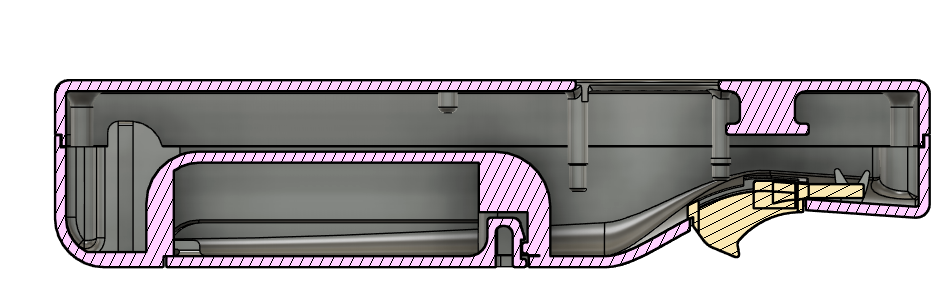
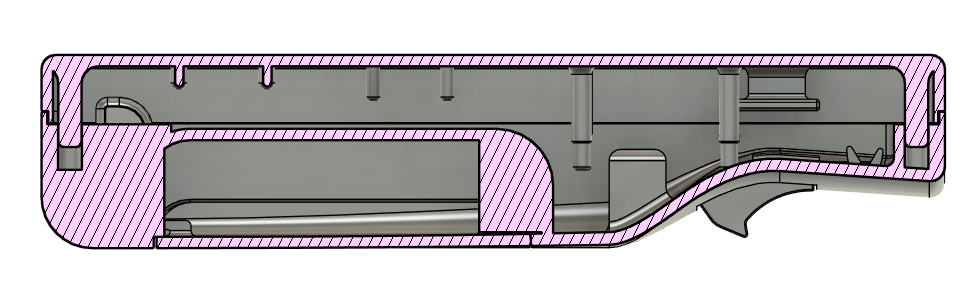
Updated concept & design documentation

diff --git a/docs/uxd/concept_design.md b/docs/uxd/concept_design.md
@@ -64,16 +64,17 @@ Additionally the controller will be wireless and communicate with the display th
 The controller is one of the most important elements of this entire projects. Having a solid concept is essential for the project to feel complete.
 Below some concepts can be seen.
 <div align="center">
-  <img src="/../assets/images/controller-concepts-1.png" alt="cursorconcept" width="75%">
+  <img src="/../assets/images/controller-concepts-1.png" alt="cursorconcept" width="49%">
+  <img src="/../assets/images/controller-concepts-2.png" alt="cursorconcept" width="49%">
 </div>
-
-<div align="center">
-  <img src="/../assets/images/controller-concepts-2.png" alt="cursorconcept" width="75%">
-</div>
-
-An additional idea is to allow the controller to be plugged into an attachment to give it more of a gun feel. This allows the controller to be more multi purpose incase of additional games, but still allow it to be fitting for the main game being worked on.
-<div align="center">
-  <img src="/../assets/images/controller-concepts-attachment.png" alt="cursorconcept" width="75%">
+<br>
+<div style="display: flex; align-items: center;">
+  <div style="flex: 1;">
+    An additional idea is to allow the controller to be plugged into an attachment to give it more of a gun feel. This allows the controller to be more multi purpose incase of additional games, but still allow it to be fitting for the main game being worked on.
+  </div>
+  <div style="flex: 1; text-align: right;">
+    <img src="/../assets/images/controller-concepts-attachment.png" alt="cursorconcept" width="75%">
+  </div>
 </div>
 <br>
 
@@ -84,7 +85,7 @@ One of the inspirations for designing the console was from looking at existing 3
   <img src="/../assets/images/console-inspiration.png" alt="console-inspiration" width="75%">
 </div>
 
-The console is modeled after a classic arcade cabinet. This cabinet is modeled around the ESP32 display more about this display [here](../embedded/technical_documentation.md#431-esp32-2432s024-esp-display)
+The console is modeled after a classic arcade cabinet. This cabinet is modeled around the ESP32 display more about this display can be found in the [Embedded Technical Documentation](../embedded/technical_documentation.md#431-esp32-2432s024-esp-display)
 
 
 
@@ -150,13 +151,14 @@ I then moved around all components around to see if everything would fit. *(This
 <br>
 <div style="display: flex; align-items: center;">
   <div style="flex: 1;">
-    After testing with this design through a few iterations a satisfying result was created to allow the trigger to press a switch.
+    After testing with this design through a few iterations a satisfying result was created to allow the trigger to press a switch. 
   </div>
   <div style="flex: 1; text-align: right;">
     <img src="/../assets/images/trigger-mechanism.png" alt="trigger-mechanism" width="75%">
   </div>
 </div>
 
+[Trigger prints can be found here](create_test.md#222-trigger-mechanism)
 
 #### 2.2.3 Joystick Holder
 The controller will also have a joystick on the top. To fasten this component a very simple push fit mechanism was used.
@@ -186,7 +188,7 @@ The vibration motor had an interesting requirement. The vibrating part had to be
 
 <div style="display: flex; align-items: center;">
   <div style="flex: 1;">
-    The dc-dc converter is fastened the same way the MPU is. This similarily is fastened to the top half of the controller
+    The DC-DC converter is fastened the same way the MPU is. This similarily is fastened to the top half of the controller. Considerations were made to ensure the input of this converter was facing towards the battery cables to reduce the distance between them.
   </div>
   <div style="flex: 1; text-align: right; margin-left: 4px;">
     <img src="/../assets/images/dc-dc-holder2.png" alt="dc-dc-holder2">
@@ -195,19 +197,27 @@ The vibration motor had an interesting requirement. The vibrating part had to be
 
 
 #### 2.2.7 Battery Holder
-To hold in the battery in the battery compartment a batter lid mechanism was designed. 
+
 <img src="/../assets/images/batteryholder-1.png" alt="batteryholder-1" >
 
 <div style="display: flex; align-items: center;">
   <div style="flex: 1;">
-    By looking at the Wii controller as inspiration a similair mechanism was designed. This mechanism is also used in many television remotes. It allows for a small latch that can be openend with the use of a finger nail or a flat head screw driver or something similair. (The plastic used PLA was quite tough and doesn't bend like the traditional remote material. Using a screwdriver is reccomended because of this.)
+    To hold in a battery in the battery compartment, a battery lid mechanism was designed. By looking at the Wii controller as inspiration a similair mechanism was designed. This mechanism is also used in many television remotes. The basic idea is to use 2 nubs at the back to fast the lid into position first then to close it the front lid bends slightly to fit into place. Once into place it can be removed by bending this same front lid back and then pull it out.
+  </div>
+  <div style="flex: 1; text-align: right;">
+    <img src="/../assets/images/wii-battery-holder.jpg" alt="wii-battery-holder" width="75%">
+  </div>
+</div>
+<br>
+<div style="display: flex; align-items: center;">
+  <div style="flex: 1;">
+    It allows for a small latch that can be openend with the use of a finger nail or a flat head screw driver or something similair. (The plastic used PLA was quite tough and doesn't bend like the traditional remote material. Using a screwdriver is reccomended because of this.)
   </div>
   <div style="flex: 1; text-align: right;">
     <img src="/../assets/images/batteryholder-2.png" alt="batteryholder-2" width="75%">
   </div>
 </div>
-
-
+<br>
 <div style="display: flex; align-items: center;">
   <div style="flex: 1;">
     The battery holder is fit into place using three mechanisms the latch in the front specified earlier. 2 nubs on the back to fit the lid into position.
@@ -274,9 +284,10 @@ I started off modeling the chosen display in Fusion360 with accurate measurement
 ### 2.3.2 Enclosure assembly
 <div style="display: flex; align-items: center;">
   <div style="flex: 1;">
-
+    The enclosure is divided in two halfs. These halves connect through the use of 4 push fit nubs. By allowing for a small amount of tolerance these will allow for opening and closing of the console.
   </div>
   <div style="flex: 1; text-align: right;">
-    <img src="/../assets/images/" alt="" width="75%">
+    <img src="/../assets/images/consolemodel-4.png" alt="" width="50%">
+    <img src="/../assets/images/consolemodel-5.png" alt="" width="50%">
   </div>
 </div>
